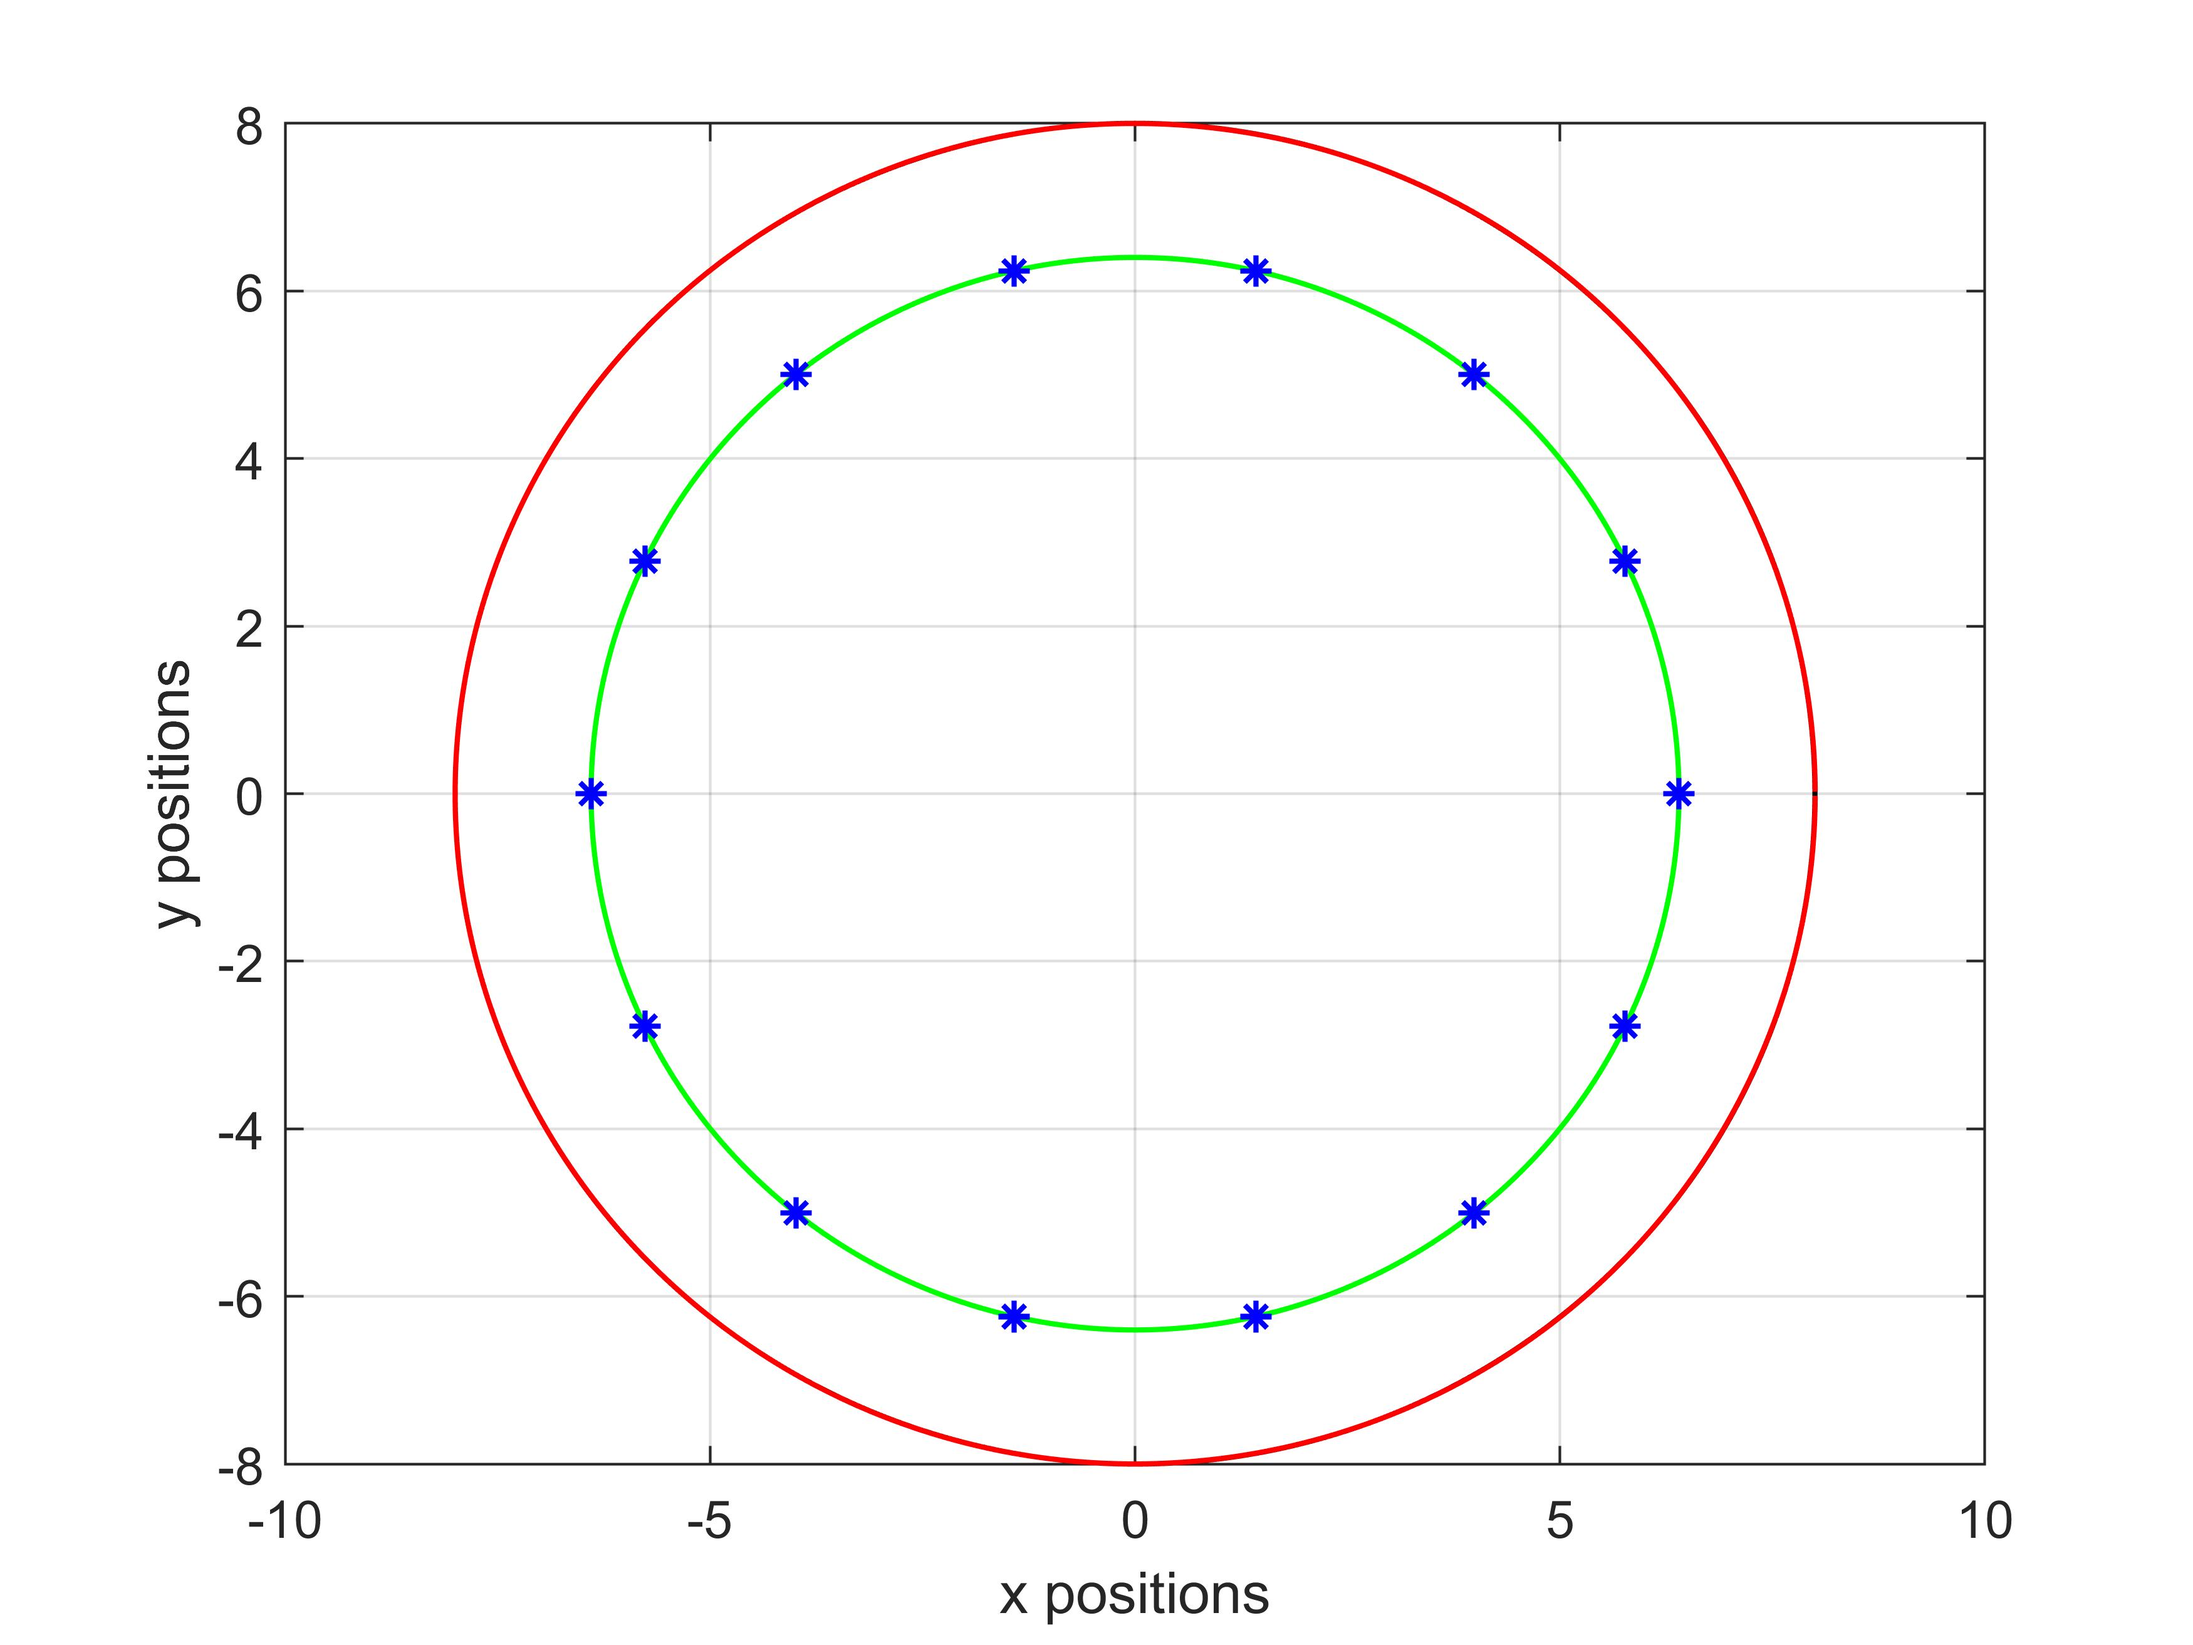
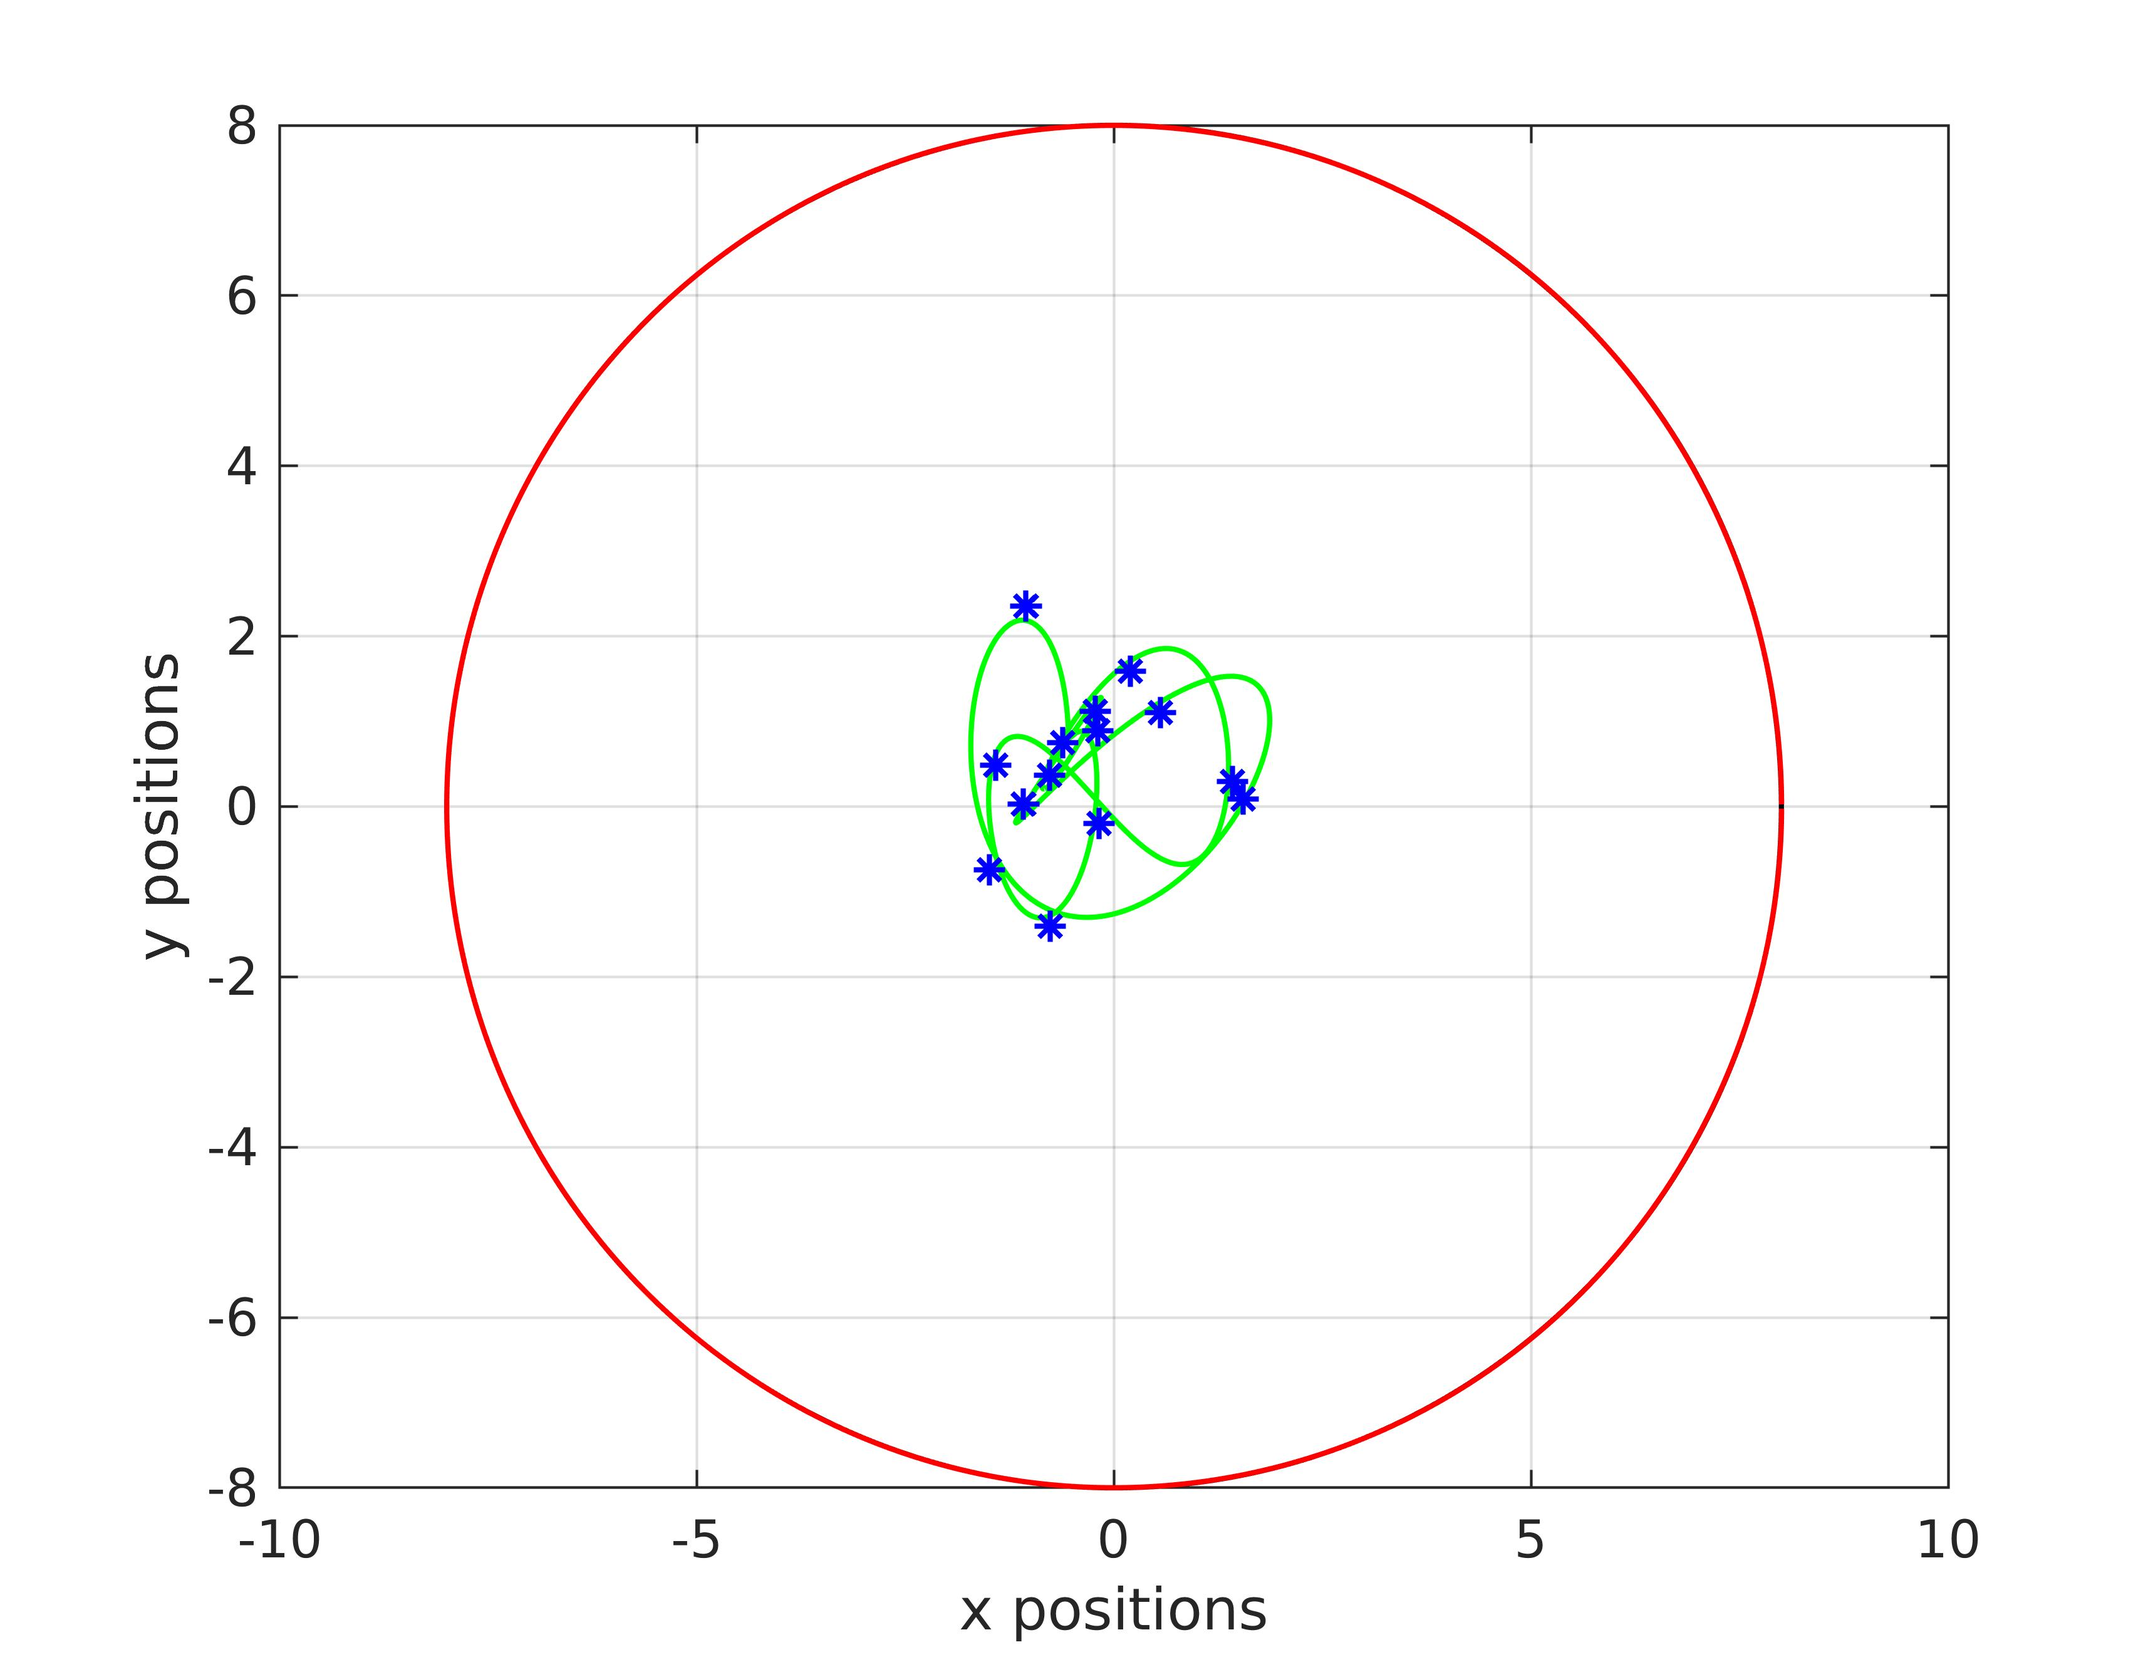
update

diff --git a/contour.m b/contour.m
@@ -27,14 +27,16 @@ end
 sim.Gs = generate_Gs(0, sim.s_step, 1-sim.s_step, param.Ns);
 
 % Laplacian
-sim.L1 = generate_L(sim.N, 2);
-sim.L2 = generate_L(sim.N, 1);
-sim.L3 = generate_L(sim.N, 0);
+sim.L1 = generate_L(sim.N, 3);
+sim.L2 = generate_L(sim.N, 2);
+sim.L3 = generate_L(sim.N, 1);
+
+sim.L = sim.L2;
 
 % l1 = generate_L(7, 2);
 % l2 = eye(14);
 % sim.L = blkdiag(l1, l1);
-% sim.L = kron(sim.L, eye(2));
+sim.L = kron(sim.L, eye(2));
 
 % sim.L = [4, -1, -1, 0, 0, -1, -1, 0, 0, 0, 0, 0, 0, 0
 %                 -1, 4, -1, -1, 0, 0, -1, 0, 0, 0, 0, 0, 0, 0
@@ -81,17 +83,18 @@ figure(1)
 
 for t = 0:sim.step:sim.t
     
-    flag = round(rand(1,1)*2);
-    
-    if flag==0
-        sim.L = sim.L1;
-    elseif flag==1
-        sim.L = sim.L2;
-    else
-        sim.L = sim.L3;
-    end
-    
-    sim.L = kron(sim.L, eye(2));
+%     flag = round(rand(1,1)*2);
+%     flag = round(2.4*abs(sin(0.01*pi*t)));
+%     
+%     if flag==0
+%         sim.L = sim.L1;
+%     elseif flag==1
+%         sim.L = sim.L2;
+%     else
+%         sim.L = sim.L3;
+%     end
+%     
+%     sim.L = kron(sim.L, eye(2));
     
     data.cd = [];
     
@@ -274,7 +277,10 @@ xlabel('time(s)'); ylabel('coefficient errors');
 figure(7)
 subplot(1,3,1)
 plot(graph(-sim.L1+diag(diag(sim.L1))));
+title('(a)');
 subplot(1,3,2)
 plot(graph(-sim.L2+diag(diag(sim.L2))));
+title('(b)');
 subplot(1,3,3)
 plot(graph(-sim.L3+diag(diag(sim.L3))));
+title('(c)');

diff --git a/controller.m b/controller.m
@@ -8,8 +8,8 @@ function [u, s, ds] = controller(k, L, G, N, c, sd)
 %         s = G\c;
 %     end    
 %     s = pinv(G'*G)*G'*c;
-    s = G'*pinv(G*G')*c;
-% s = pinv(G)*c;
+%     s = G'*pinv(G*G')*c;
+    s = pinv(G)*c;
     
     ds = s - sd;
     
